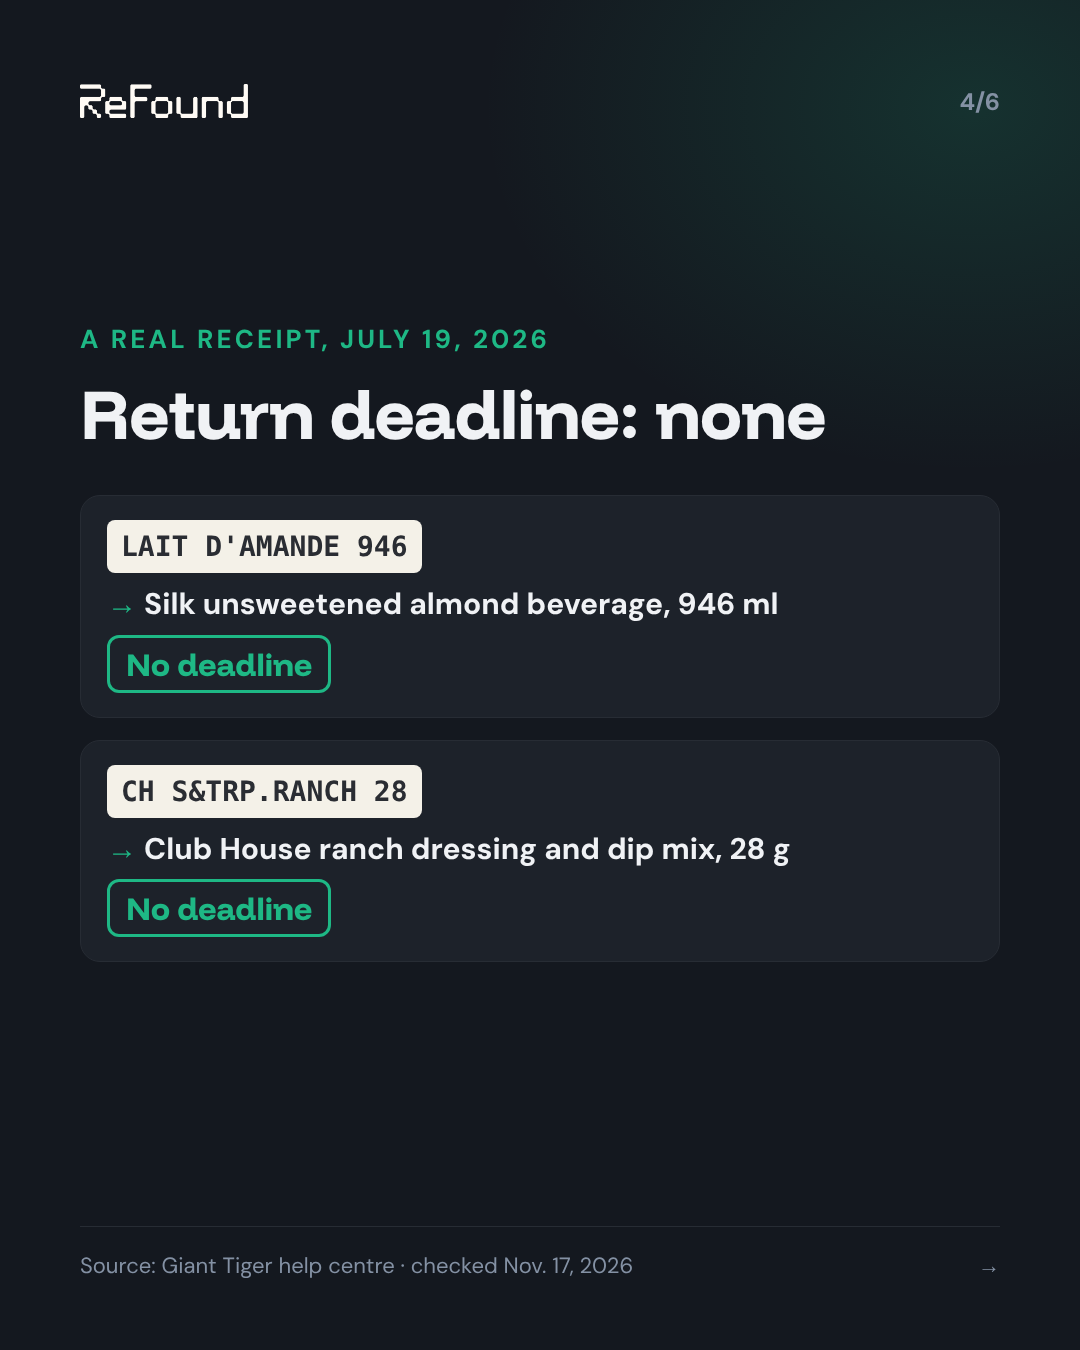
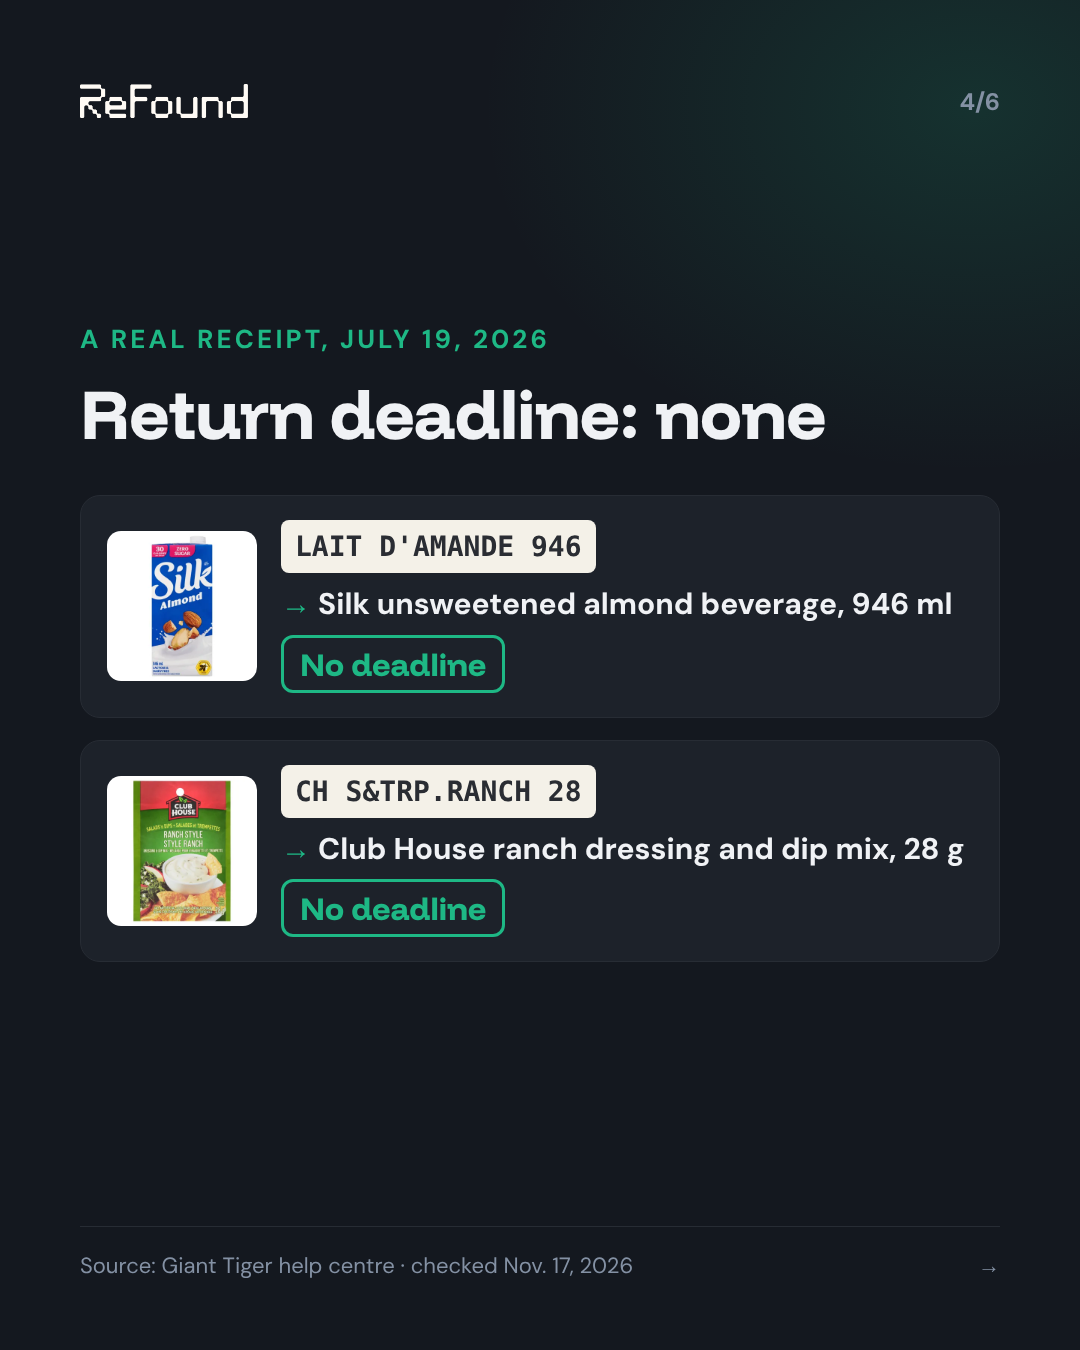
Carousels: add TikTok 9:16 variants (tt-*.png) with TikTok safe zones
Claude-Session: https://claude.ai/code/session_01RobFqgR2K4ctFiasTkgThL

Changed region(s): [[0.0917, 0.3733, 0.8861, 0.5289], [0.0917, 0.56, 0.8861, 0.7156]]

diff --git a/tools/render-carousel.js b/tools/render-carousel.js
@@ -1,5 +1,6 @@
 // Carrousels médias sociaux (social/README.md). Usage: node render-carousel.js <slug> <outDir>
-// 1080×1350, fr-01.png… et en-01.png…. Types de diapos : hook (accroche), text (titre + texte),
+// 1080×1350 (Instagram, Facebook) : fr-01.png… et en-01.png… ; 1080×1920 (TikTok, 9:16) : tt-fr-01.png…, avec
+// zones de sécurité TikTok (haut 200 px, bas 460 px pour la légende, droite 130 px pour les boutons). Types de diapos : hook (accroche), text (titre + texte),
 // stat (gros chiffre), receipt (lignes de kit/receipts.json : ligne imprimée → produit → garantie/date), cta (fin).
 // Contenu tiré de l'article (mêmes sources) ; titre ≤ 8 mots, texte ≤ 25 mots ; aucun faux bouton App Store.
 const { chromium } = require('playwright');
@@ -42,9 +43,10 @@ const CSS = [font('Funnel Display', FD + '700-normal.woff2', 700), font('Funnel 
 .nm{font-weight:700;font-size:30px;line-height:1.25}.nm:before{content:'→ ';color:var(--green)}
 .r.wp{grid-template-columns:150px 1fr;column-gap:24px}.r.wp>*:not(.ph){grid-column:2}.ph{grid-row:1/4;width:150px;height:150px;background:#fff;border-radius:14px;display:flex;align-items:center;justify-content:center;overflow:hidden;align-self:center}.ph img{max-width:100%;max-height:100%}
 .bd{justify-self:start;border:3px solid;border-radius:12px;padding:6px 16px;font-family:'Funnel Display';font-weight:800;font-size:32px}
+.s.tt{height:1920px;padding:200px 130px 460px 80px}.s.tt .t{font-size:84px}.s.tt .b{font-size:40px}
 .cta .t{font-size:84px}.url{margin-top:44px;font-family:'Funnel Display';font-weight:800;font-size:56px;color:var(--green)}`;
 
-function slide(d, i, n, src) {
+function slide(d, i, n, src, tt) {
   const top = `<div class="top"><img src="${LOGO}"><span>${i}/${n}</span></div>`;
   const foot = `<div class="foot"><span>${src}</span><span>${i < n ? '→' : ''}</span></div>`;
   let body = '';
@@ -56,7 +58,7 @@ function slide(d, i, n, src) {
       const it = r.items[ix]; const ph = photo(it); return `<div class="r${ph ? ' wp' : ''}">${ph ? `<div class="ph"><img src="${ph}"></div>` : ''}<div class="pr">${esc(it.printed)}</div><div class="nm">${esc(d.names && d.names[ix] || it.name)}</div><div class="bd" style="border-color:${col};color:${col}">${esc(badge)}</div></div>`; }).join('')}</div>`;
   }
   if (d.type === 'cta') body = `<div class="cta"><div class="eyebrow">${d.eyebrow}</div><div class="t h">${d.title}</div><div class="b">${d.text}</div><div class="url">refoundapp.ca</div></div>`;
-  return `<style>${CSS}</style><div class="s">${top}<div class="mid">${body}</div>${foot}</div>`;
+  return `<style>${CSS}</style><div class="s${tt ? ' tt' : ''}">${top}<div class="mid">${body}</div>${foot}</div>`;
 }
 
 const C = require(path.join(ROOT, 'social', process.argv[2], 'slides.js'));
@@ -65,10 +67,10 @@ const C = require(path.join(ROOT, 'social', process.argv[2], 'slides.js'));
   const b = await chromium.launch();
   for (const l of ['fr', 'en']) {
     const list = C[l].slides;
-    for (let i = 0; i < list.length; i++) {
-      const p = await b.newPage({ viewport: { width: 1080, height: 1350 } });
-      await p.setContent(slide(list[i], i + 1, list.length, C[l].src)); await p.evaluate(() => document.fonts.ready);
-      await p.screenshot({ path: path.join(out, `${l}-${String(i + 1).padStart(2, '0')}.png`) }); await p.close();
+    for (const tt of [false, true]) for (let i = 0; i < list.length; i++) {
+      const p = await b.newPage({ viewport: { width: 1080, height: tt ? 1920 : 1350 } });
+      await p.setContent(slide(list[i], i + 1, list.length, C[l].src, tt)); await p.evaluate(() => document.fonts.ready);
+      await p.screenshot({ path: path.join(out, `${tt ? 'tt-' : ''}${l}-${String(i + 1).padStart(2, '0')}.png`) }); await p.close();
     }
   }
   await b.close();
